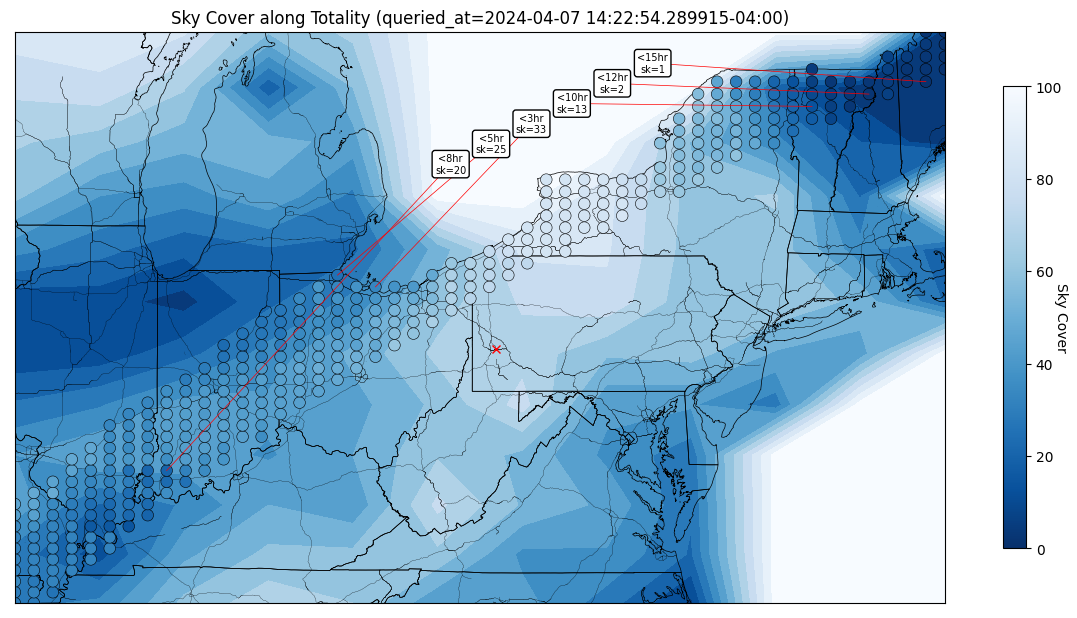
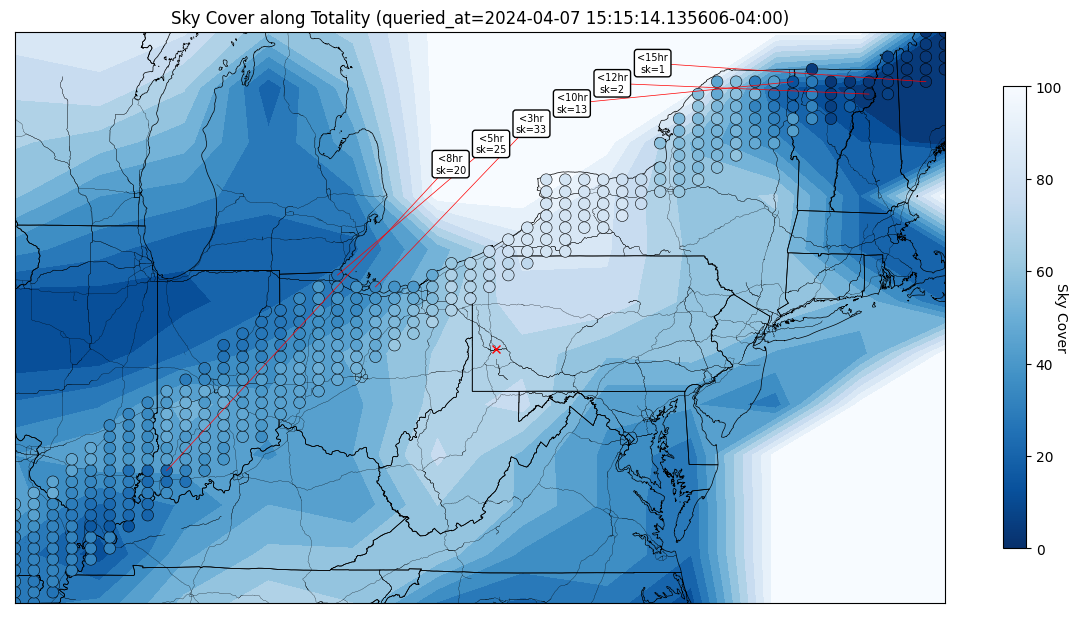
Automated map update

diff --git a/README.md b/README.md
@@ -5,6 +5,6 @@ The best targets by hour:
  - Less than 3 hours: (41.48571, -82.67347) cover: 33
  - Less than 5 hours: (41.68163, -83.51837) cover: 25
  - Less than 8 hours: (38.35102, -87.32041) cover: 20
- - Less than 10 hours: (44.42449, -72.95714) cover: 13
+ - Less than 10 hours: (44.81633, -73.37959) cover: 13
  - Less than 12 hours: (44.62041, -71.68980) cover: 2
  - Less than 15 hours: (44.81633, -70.42245) cover: 1
